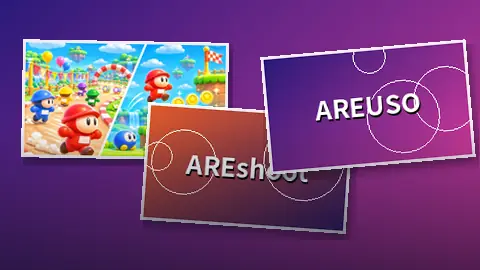
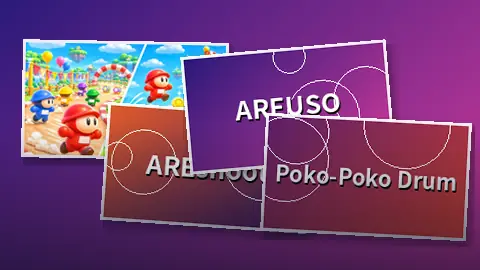
アクションの表紙画像を、ポコポコ太鼓を足したぶん作り直し（sw.js v94）
Claude-Session: https://claude.ai/code/session_018J4UKS9vTTR3Q6tb2xqyur

diff --git a/sw.js b/sw.js
@@ -4,7 +4,7 @@
 // ・html は ネット優先（つながるときは 常に最新）／js・css などは 控え先・裏で更新。
 // ・ARE QUEST 本体（game/）は game/sw.js が 先に担当する。GET 以外・ほかのサイトには さわらない。
 importScripts("precache-manifest.js", "sw-core.js");
-const CACHE = "game-v93-20261125";
+const CACHE = "game-v94-20261125";
 const core = self.areCore({shell: CACHE, root: "./", precache: true, fetch: false});
 const STATIC_RE = /\.(?:js|css|png|webp|jpe?g|gif|svg|ico|json|webmanifest|txt|woff2?|ttf|mp3|mp4|wasm)$/i;
 
